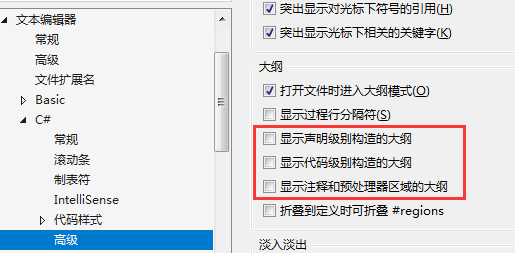
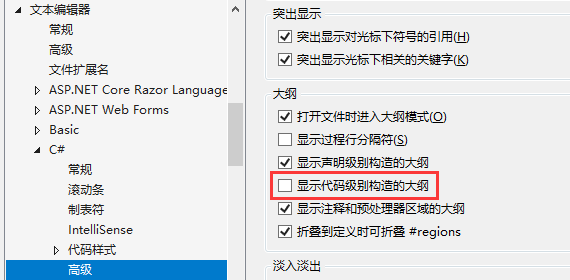
README.md  uncheck only one option.

Changed region(s): [[0.0, 0.0, 1.0, 1.0], [0.466, 0.8854, 1.0, 0.996]]

diff --git a/README.md b/README.md
@@ -4,7 +4,7 @@
 
 An extension for Visual Studio 2017/2019 to add curly braces outlining for C# editor, **especially those braces in the catch & finally block**. It's better to disable built-in outlining.
 
->Tools-Option-Text Editor-C#-Advanced-Outlining, uncheck `Show outlining of declaration level constructs` and `Show outlining of code level constructs` and `Show outlining of comments and preprocessor regions`
+>Tools-Option-Text Editor-C#-Advanced-Outlining, uncheck  `Show outlining of code level constructs`
 
 ![uncheck](uncheck-en.png)
 
@@ -76,7 +76,7 @@ Visual Studio 2017/2019 扩展，主要功能如下
 
 ### 这几项功能和VS自带的功能有所重叠，所以需要取消勾选以下选项
 
->工具-选项-文本编辑器-C#-高级-大纲，取消勾选 `显示声明级别构造的大纲`, `显示代码级别构造的大纲`, `显示注释和预处理区域的大纲`
+>工具-选项-文本编辑器-C#-高级-大纲，取消勾选 `显示代码级别构造的大纲`
 
 ![uncheck](uncheck-cn.png)
 
